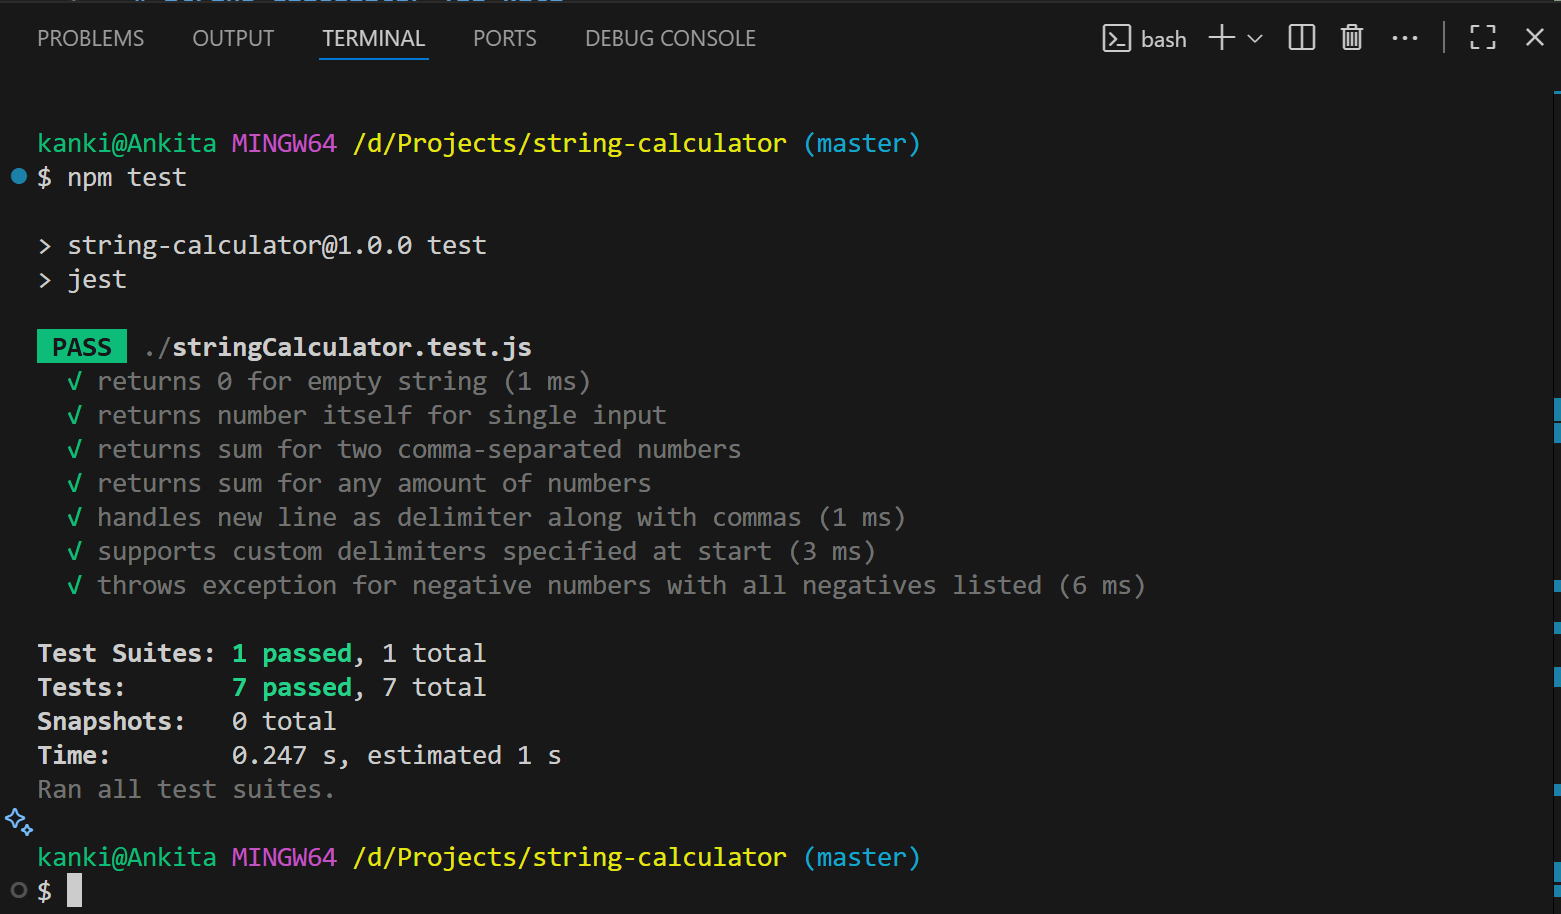
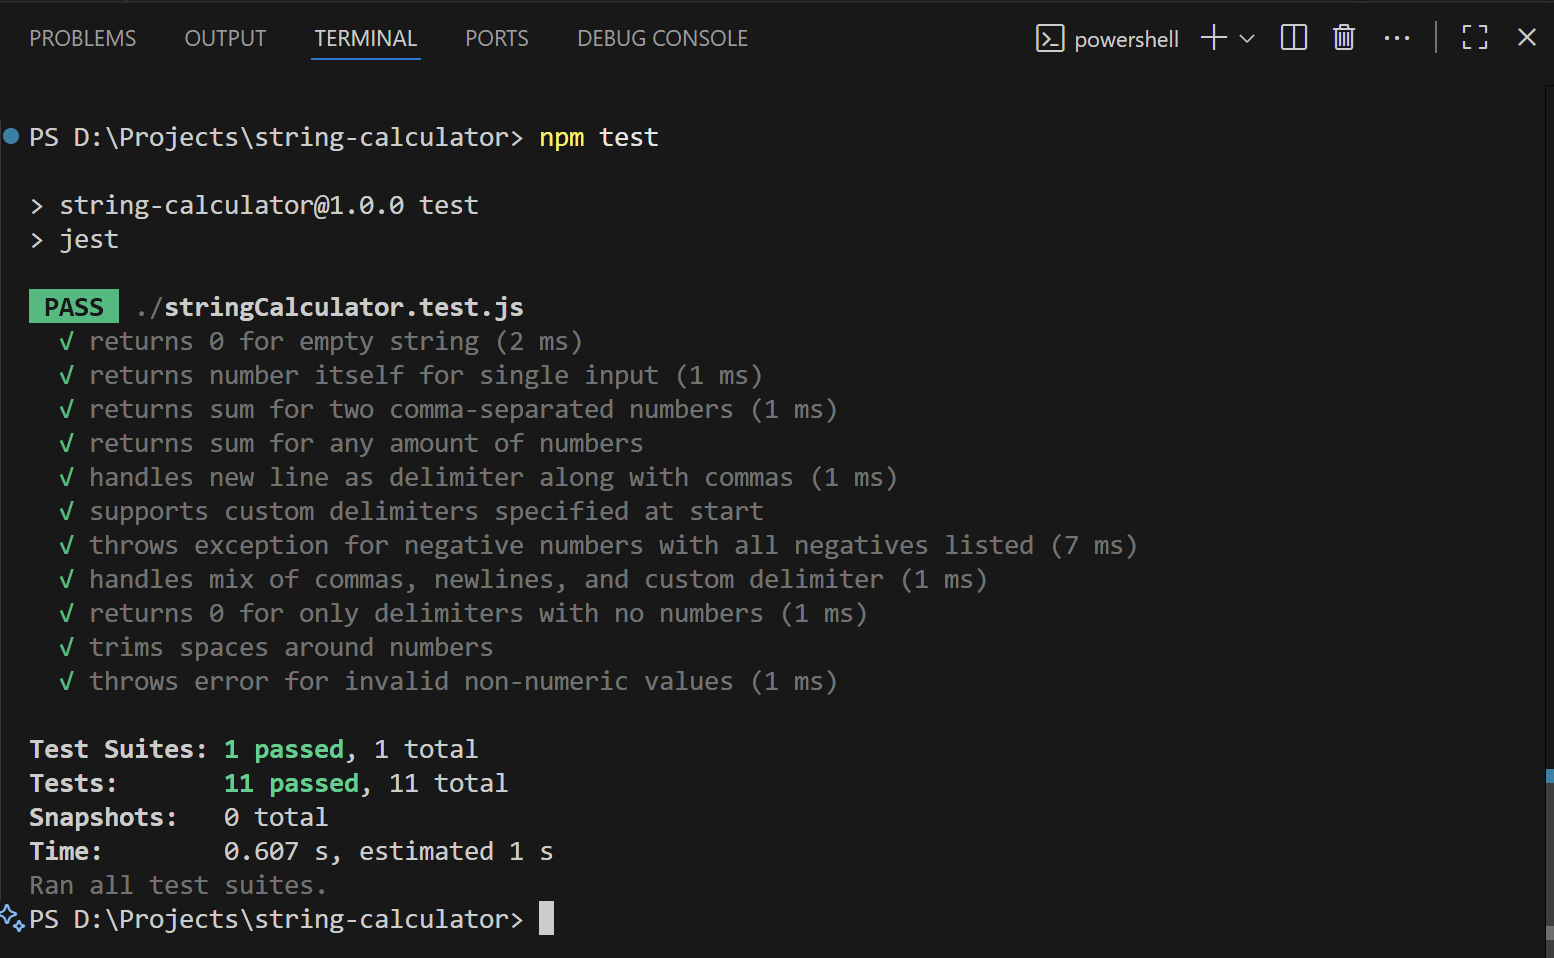
Refactor: enhance add function to support custom delimiters and improve input validation; add edge case tests

diff --git a/stringCalculator.js b/stringCalculator.js
@@ -1,23 +1,43 @@
 function add(numbers) {
   if (numbers === "") return 0;
 
-  let delimiter = /,|\n/;
-  let numStr = numbers;
+  let delimiter = /,|\n/; // default delimiters
+  let input = numbers;
 
+  // Custom delimiter support
   if (numbers.startsWith("//")) {
     const parts = numbers.split("\n");
-    delimiter = new RegExp(parts[0].slice(2));
-    numStr = parts[1];
+    const customDelimiter = parts[0].slice(2);
+    delimiter = new RegExp(`[,\n${escapeRegExp(customDelimiter)}]`);
+    input = parts.slice(1).join("\n"); 
   }
 
-  const parts = numStr.split(delimiter).map(n => parseInt(n, 10));
+  // Split and trim
+  const values = input.split(delimiter).map(v => v.trim()).filter(v => v !== "");
 
-  const negatives = parts.filter(n => n < 0);
+  if (values.length === 0) return 0;
+
+  // Validate & convert to numbers
+  const nums = values.map(v => {
+    if (!/^[-]?\d+$/.test(v)) {
+      throw new Error(`Invalid input: ${v}`);
+    }
+    return parseInt(v, 10);
+  });
+
+  // Negative check
+  const negatives = nums.filter(n => n < 0);
   if (negatives.length > 0) {
     throw new Error("negative numbers not allowed " + negatives.join(","));
   }
 
-  return parts.reduce((sum, num) => sum + num, 0);
+  // Sum
+  return nums.reduce((sum, n) => sum + n, 0);
+}
+
+// Utility to escape special regex characters in custom delimiters
+function escapeRegExp(str) {
+  return str.replace(/[.*+?^${}()|[\]\\]/g, "\\$&");
 }
 
 module.exports = add;

diff --git a/stringCalculator.test.js b/stringCalculator.test.js
@@ -28,6 +28,22 @@ test('throws exception for negative numbers with all negatives listed', () => {
   expect(() => add("1,-2,3,-4")).toThrow("negative numbers not allowed -2,-4");
 });
 
+// Edge cases
+test('handles mix of commas, newlines, and custom delimiter', () => {
+  expect(add("//;\n1;2\n3,4")).toBe(10);
+});
+
+test('returns 0 for only delimiters with no numbers', () => {
+  expect(add(",,,\n\n")).toBe(0);
+});
+
+test('trims spaces around numbers', () => {
+  expect(add(" 1 , 2 , 3 ")).toBe(6);
+});
+
+test('throws error for invalid non-numeric values', () => {
+  expect(() => add("1,a,3")).toThrow("Invalid input: a");
+});
 
 
 
